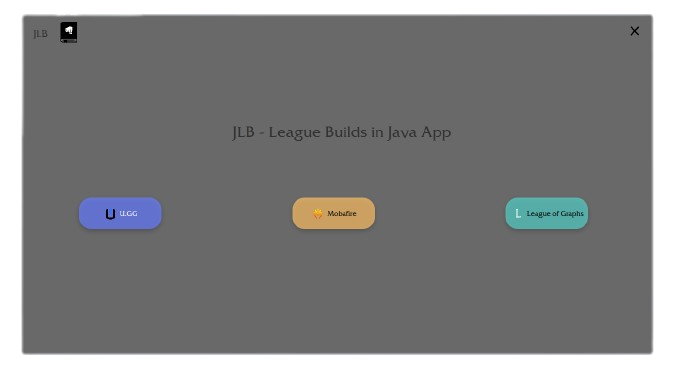
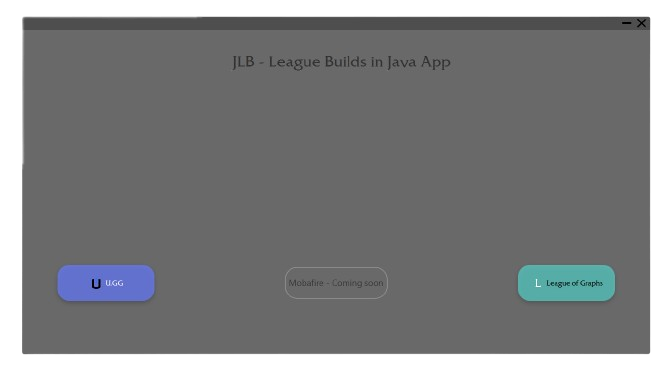
Updated docs

diff --git a/README.md b/README.md
@@ -13,27 +13,38 @@ to think what's better for you.
 ## How to use?
 ### Main Page
 App is very easy to use. What you see underneath is **Main Scene**
+
 ![Failed to load image](docs/main-scene.png)
 
-I don't think this needs to be explained. You just choose the page you want your data from.
+Currently, you are able to choose from two websites: [U.GG](https://u.gg/) and [League of Graphs](https://www.leagueofgraphs.com/). This page is only for the first time when you are
+choosing your desired page (you cannot go back here).
 
-You can use: 
-- [U.GG](https://u.gg/)
-- [Mobafire](https://www.mobafire.com/)
-- [League of Graphs](https://www.leagueofgraphs.com)
-
+After choosing your page, you will be redirected to:
 ### Champions Page
-Each LoL page has list of champions for which you can look up the build (probably all champions are available).
+Each LoL page has list of champions for which you can look up the build (change will be only noticeable when Riot adds new champion, because not every page may have the build ready).
 ![Failed to load image](docs/champions-scene.png)
 
-Again using this is not a rocket science. You simply click on the champion you want to look up his build.
+Simply, you just choose one of the champions given below. After pressing on one of these, a build page of champion will appear.
 
-Also, you can quickly switch between different pages using the three buttons at the top.
+Additionally, you can *"change your mind"* even here on the Champions page, where at the top there is a bar with buttons (with the names of the Lol build Websites). 
+Currently used page will be automatically changed to the page you clicked and build will be shown from clicked page. You can tell which page you have active thanks to the image
+next to the text, chosen page will have **full opacity**.
 
 ### Build Page
-Last but not least the build page
+Finally, the build page, core of this app
 
 ![Failed to load image](docs/build-scene.png)
 
-As mentioned before, you can compare statistically created builds with other LoL pages. Also, If you missclicked or you
-are done checking your build, you can go back to the **Champions Page** using the **arrow** button at the right top corner.
+You are given the runes for the champion, champion's *most optimal build and his summoner spells which most people use.
+
+You are also able to view a short tooltip for each **Item** and **Rune**.
+
+As mentioned before, you can **switch between pages** that are shown on the left side of this page to compare build between themselves.
+
+
+## Disclaimer
+Since this app provides you with data which are **scraped** from various websites, using word *most optimal* is relative.
+Builds for champs are created statistically by the website providers (U.GG, League of Graphs, et.).
+
+It is up to you to consider if the build is optimal or not. Additionally, there are even pages like **Mobafire** where builds are created
+directly from players where is even more to consider.
